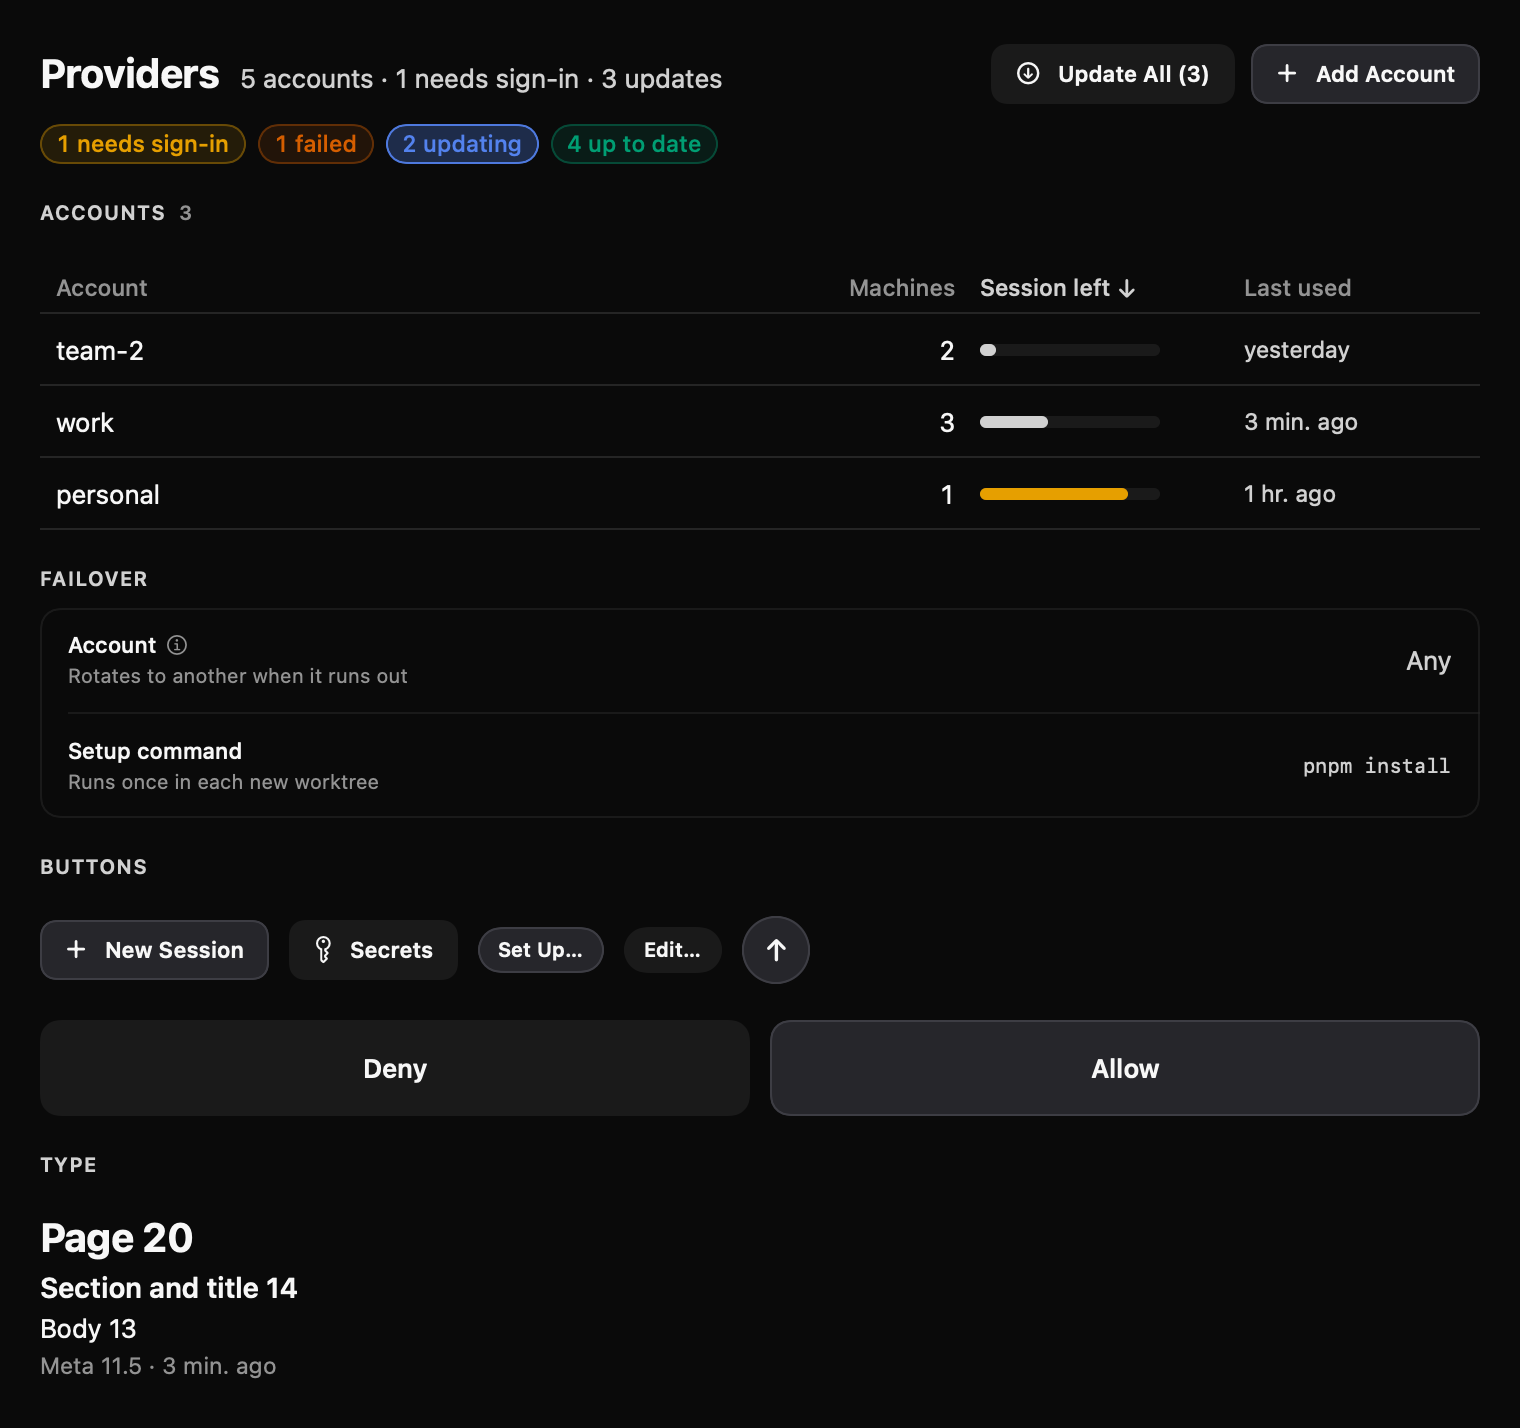
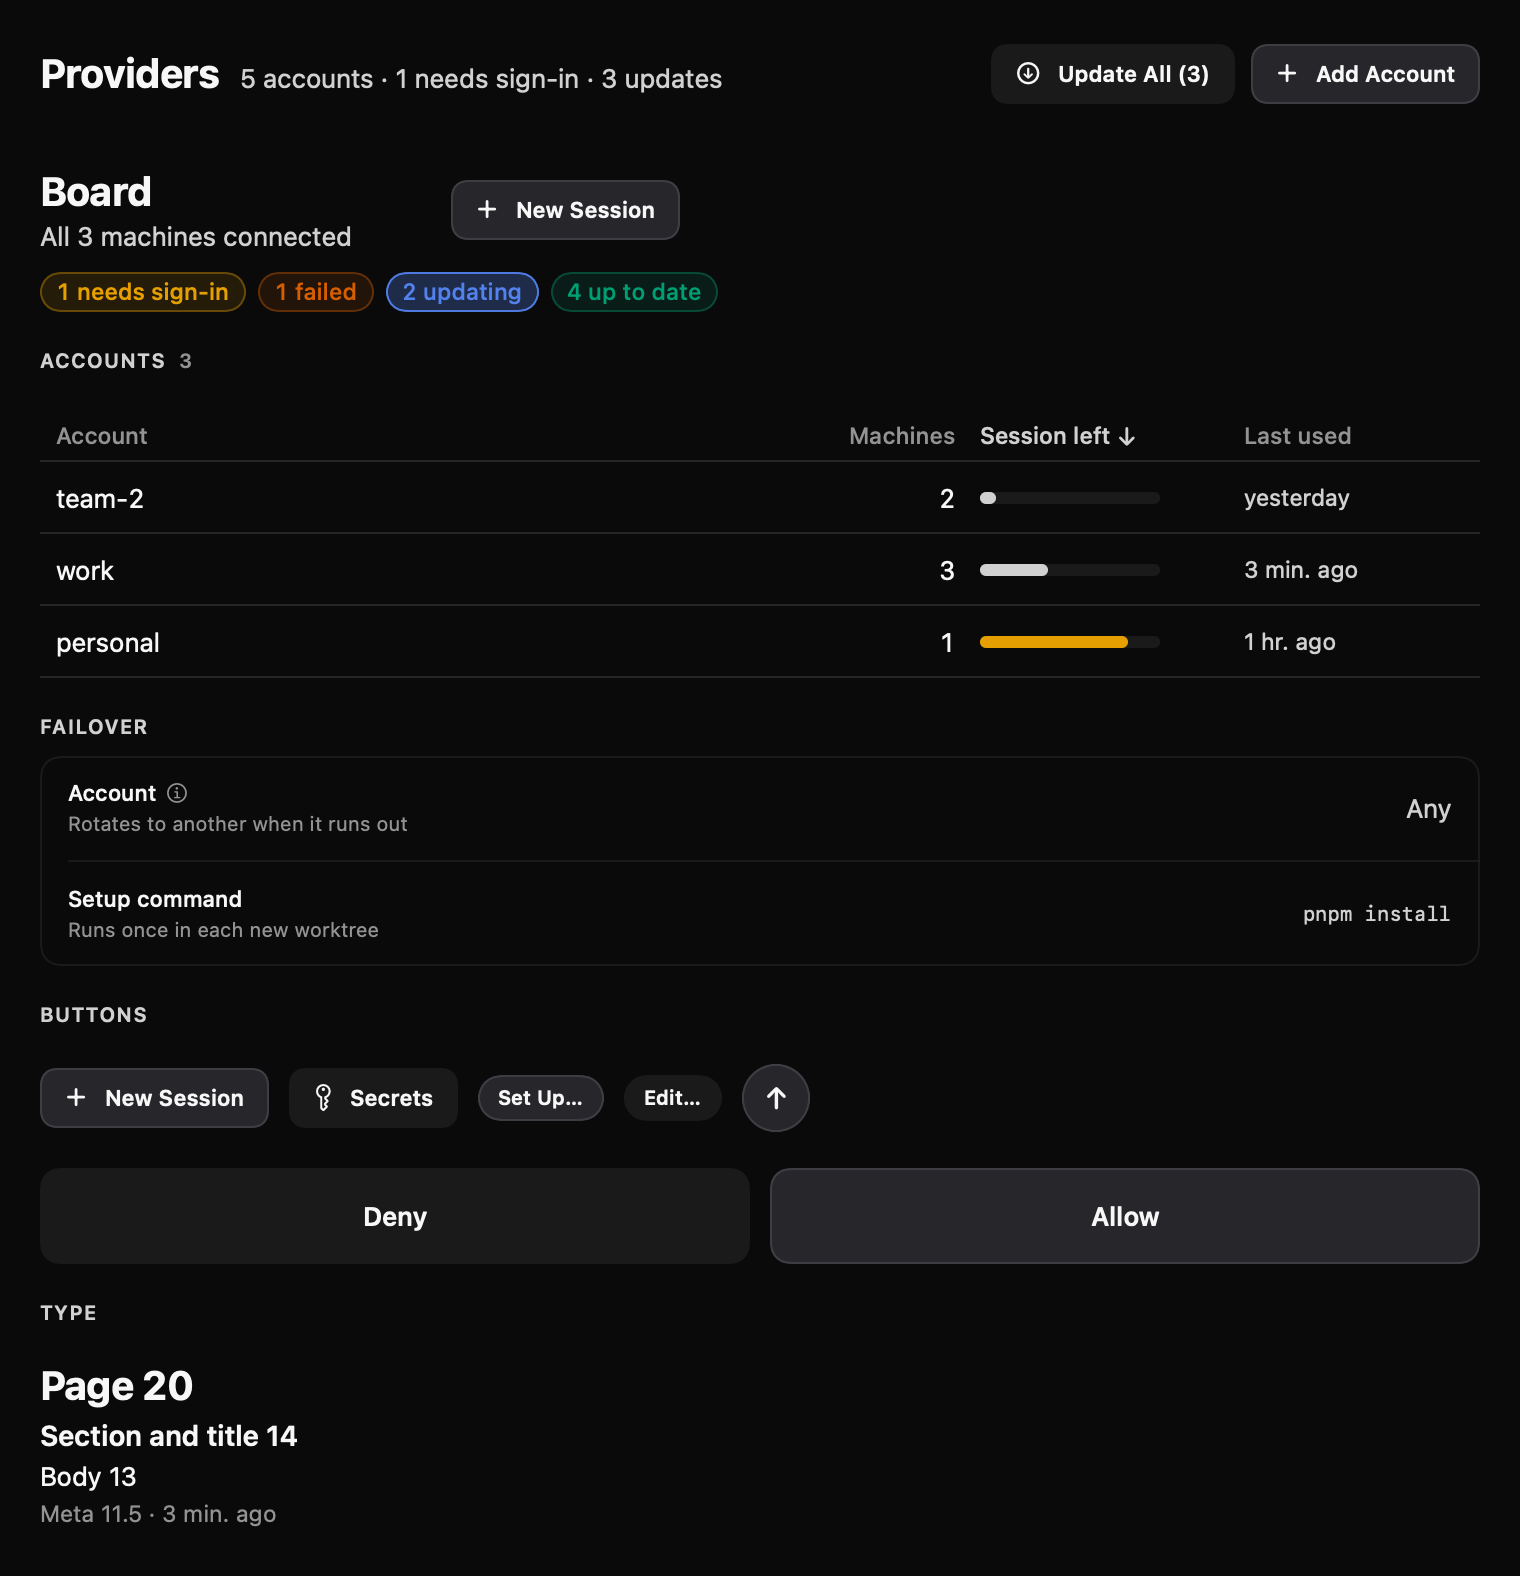
Put a page's status under its title in a narrow pane
Inline after the title, the Board's status was cut off in the 380 pt
list pane; it goes on its own line where the two do not fit.

Herder-Session: 01M5T78BRE7KCES4CD7WW3GDFK

diff --git a/apple/HerderKit/Sources/HerderKit/Design/PageHeader.swift b/apple/HerderKit/Sources/HerderKit/Design/PageHeader.swift
@@ -17,18 +17,10 @@ struct PageHeader<Actions: View>: View {
     var body: some View {
         HStack(alignment: .center, spacing: 8) {
             if let icon { icon.padding(.trailing, 4) }
-            HStack(alignment: .firstTextBaseline, spacing: 10) {
-                titleView
-                if state != nil || !status.isEmpty {
-                    HStack(spacing: 4) {
-                        if let state {
-                            StatusGlyph(state: state, size: 7, pulses: false)
-                            Text(status.isEmpty ? state.label : "\(state.label) ·")
-                        }
-                        if !status.isEmpty { Text(status) }
-                    }
-                    .font(Theme.body).foregroundStyle(Theme.secondary).lineLimit(1)
-                }
+            // The status follows the title on its line, or goes under it in a narrow pane.
+            ViewThatFits(in: .horizontal) {
+                HStack(alignment: .firstTextBaseline, spacing: 10) { titleView; statusView.fixedSize() }
+                VStack(alignment: .leading, spacing: 2) { titleView; statusView }
             }
             Spacer(minLength: 8)
             // The actions take their room before the title, so a label never wraps.
@@ -38,6 +30,19 @@ struct PageHeader<Actions: View>: View {
         .padding(.horizontal, 20)
         .padding(.top, 22)
         .padding(.bottom, 10)
+    }
+
+    @ViewBuilder private var statusView: some View {
+        if state != nil || !status.isEmpty {
+            HStack(spacing: 4) {
+                if let state {
+                    StatusGlyph(state: state, size: 7, pulses: false)
+                    Text(status.isEmpty ? state.label : "\(state.label) ·")
+                }
+                if !status.isEmpty { Text(status) }
+            }
+            .font(Theme.body).foregroundStyle(Theme.secondary).lineLimit(1)
+        }
     }
 
     @ViewBuilder private var titleView: some View {

diff --git a/apple/HerderKit/Tests/HerderKitTests/DesignSystemScreenshotTests.swift b/apple/HerderKit/Tests/HerderKitTests/DesignSystemScreenshotTests.swift
@@ -41,6 +41,11 @@ private struct Gallery: View {
                 PaneButton(title: "Update All (3)", symbol: "arrow.down.circle") {}
                 PaneButton(title: "Add Account", symbol: "plus", prominent: true) {}
             }
+            // A narrow list pane: the status goes under the title.
+            PageHeader(title: "Board", status: "All 3 machines connected") {
+                PaneButton(title: "New Session", symbol: "plus", prominent: true) {}
+            }
+            .frame(width: 360)
             VStack(alignment: .leading, spacing: 18) {
                 SignalStrip(signals: [
                     Signal(id: "needs", count: 1, label: "needs sign-in", urgency: .needsYou),
